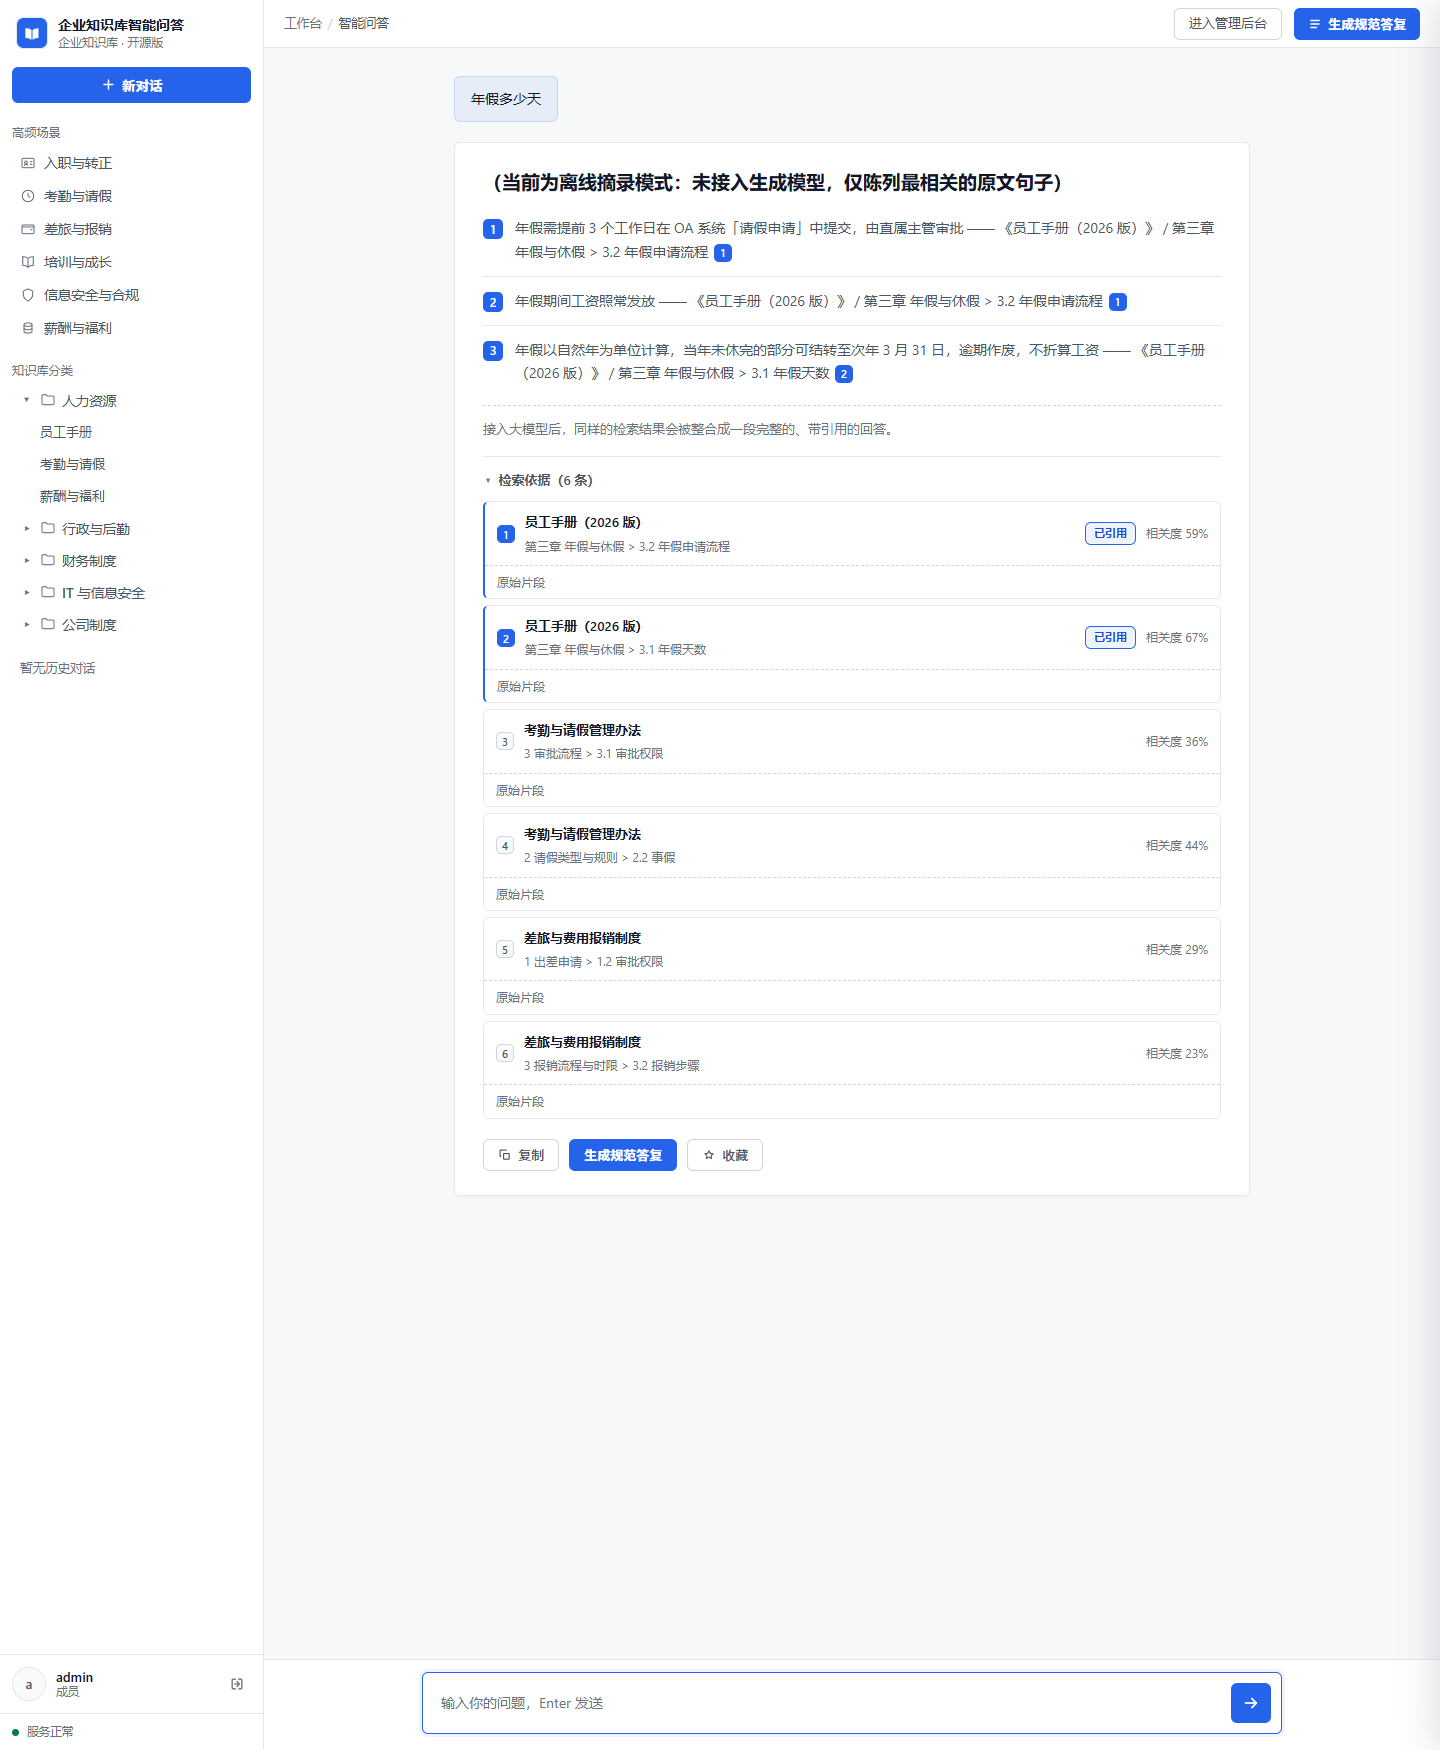
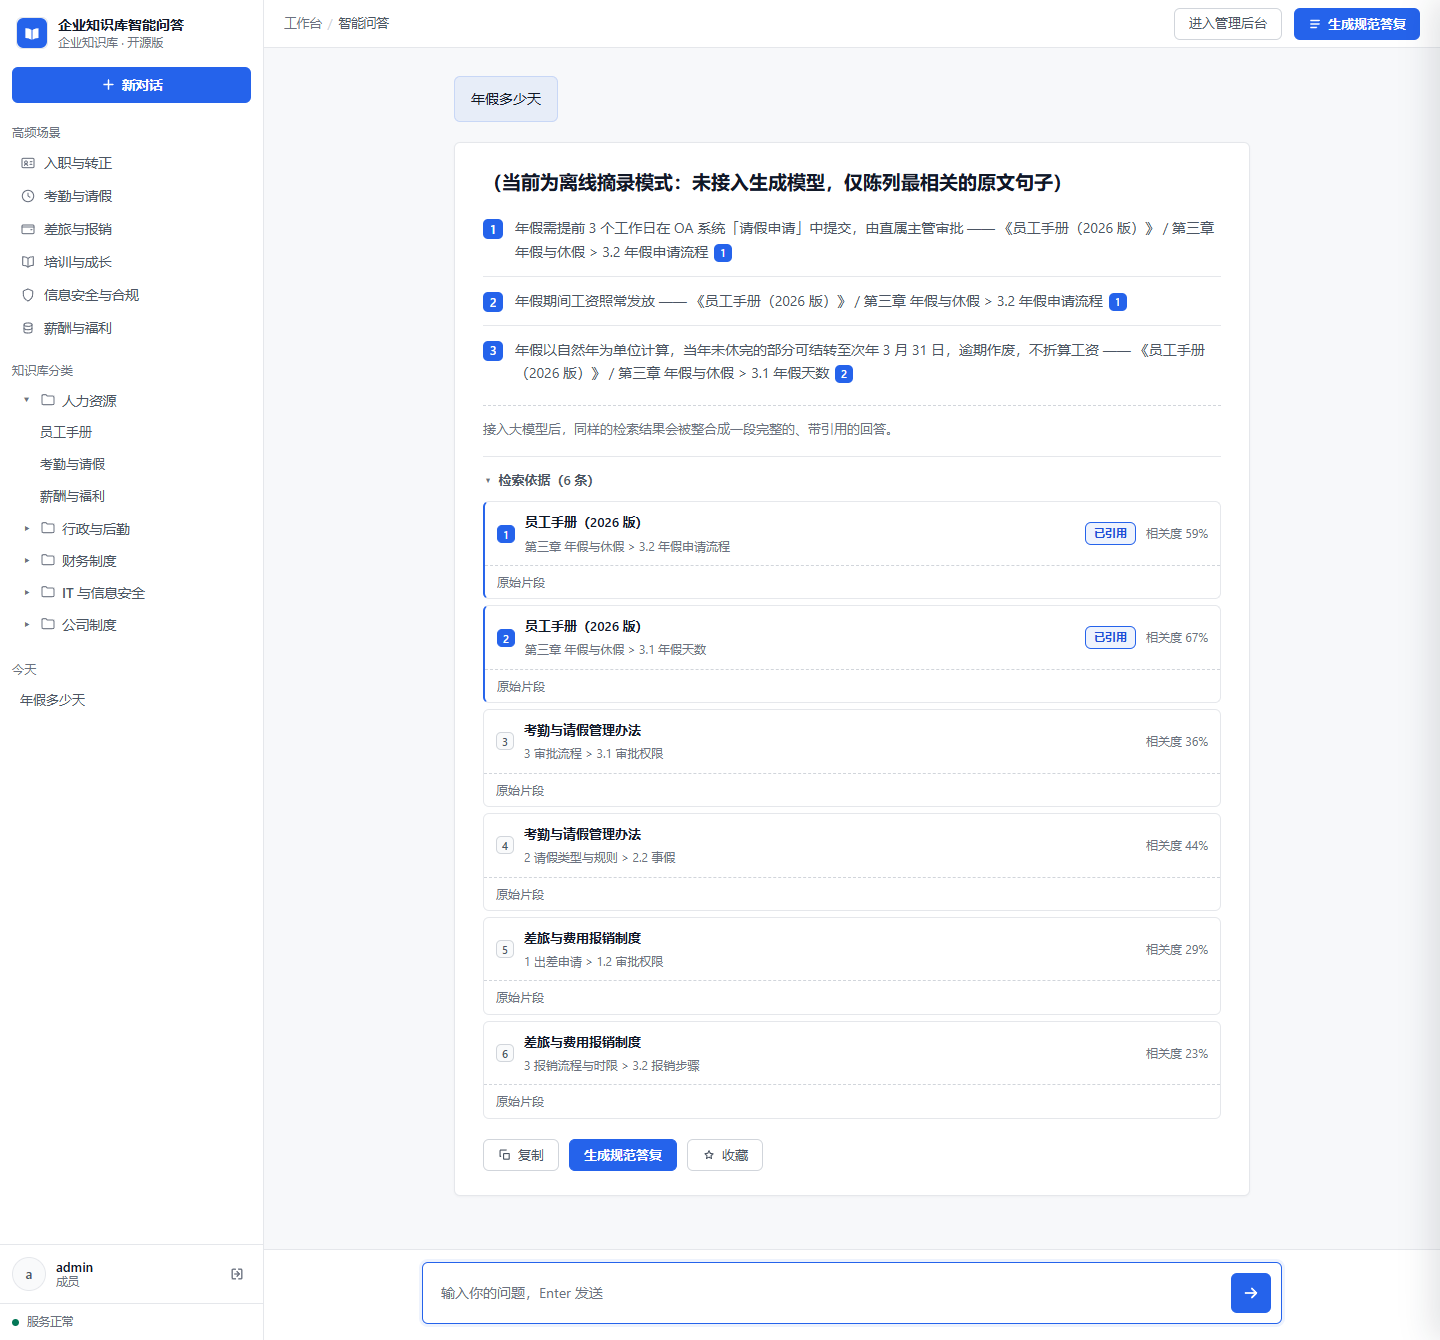
docs: 补充界面截图（问答页 6 条依据、原文抽屉、管理后台）

diff --git a/README.md b/README.md
@@ -192,6 +192,10 @@ python -m app.cli serve --host 127.0.0.1 --port 8080
 - **点正文里的 `[n]` 胶囊** → 自动展开折叠块、滚到第 n 条、高亮约 1.6 秒，并把它下面的「原始片段」一起展开。不用自己去列表里找编号。
 - **从历史对话回放的旧回答**没有 `sources`，此时点胶囊直接开抽屉——不会点了没反应。
 
+点某一行之后，右侧滑出的是这一条的原文，带章节路径和相关度：
+
+![原文抽屉](docs/screenshots/doc-drawer.png)
+
 ### 为什么列了 6 条，正文只标了 `[1] [2]`
 
 `sources[]` 是本次检索的**全部召回**（`retrieval.final_top_k`，默认 6），正文里的 `[n]` 只是这次真正被用到的几条。
@@ -209,6 +213,17 @@ python -m app.cli serve --host 127.0.0.1 --port 8080
 ### 顺序不是相关度降序
 
 上面那张表里第 1 条 59%、第 2 条 67%，不是排序错了。列表顺序是两路各自排名 → RRF 融合 → 精排之后的结果，`dense_score` 只是其中一路的依据：第 1 条在 BM25 路也排得靠前，融合后名次更高。所以**别拿百分比去反推排序逻辑**，详见[技术要点](#技术要点)①。
+
+### 管理后台
+
+同一个账号如果是管理员，问答页右上角会多一个「进入管理后台」。四块：
+
+- **知识库管理** —— 文档列表（标题 / 分类 / 类型 / 字数 / 分块数 / 更新时间）、上传入库、查看切片、归类、删除；
+- **入库维护** —— 重新入库、重建 BM25 索引（改了分类名之后要跑一次，原因见[常见问题](#常见问题)）；
+- **账号管理** —— 建号、停用、改角色、重置密码；
+- **API 调用量** —— 按接口维度统计，用来判断哪个入口在被实际使用。
+
+![管理后台](docs/screenshots/admin.png)
 
 ---
 
